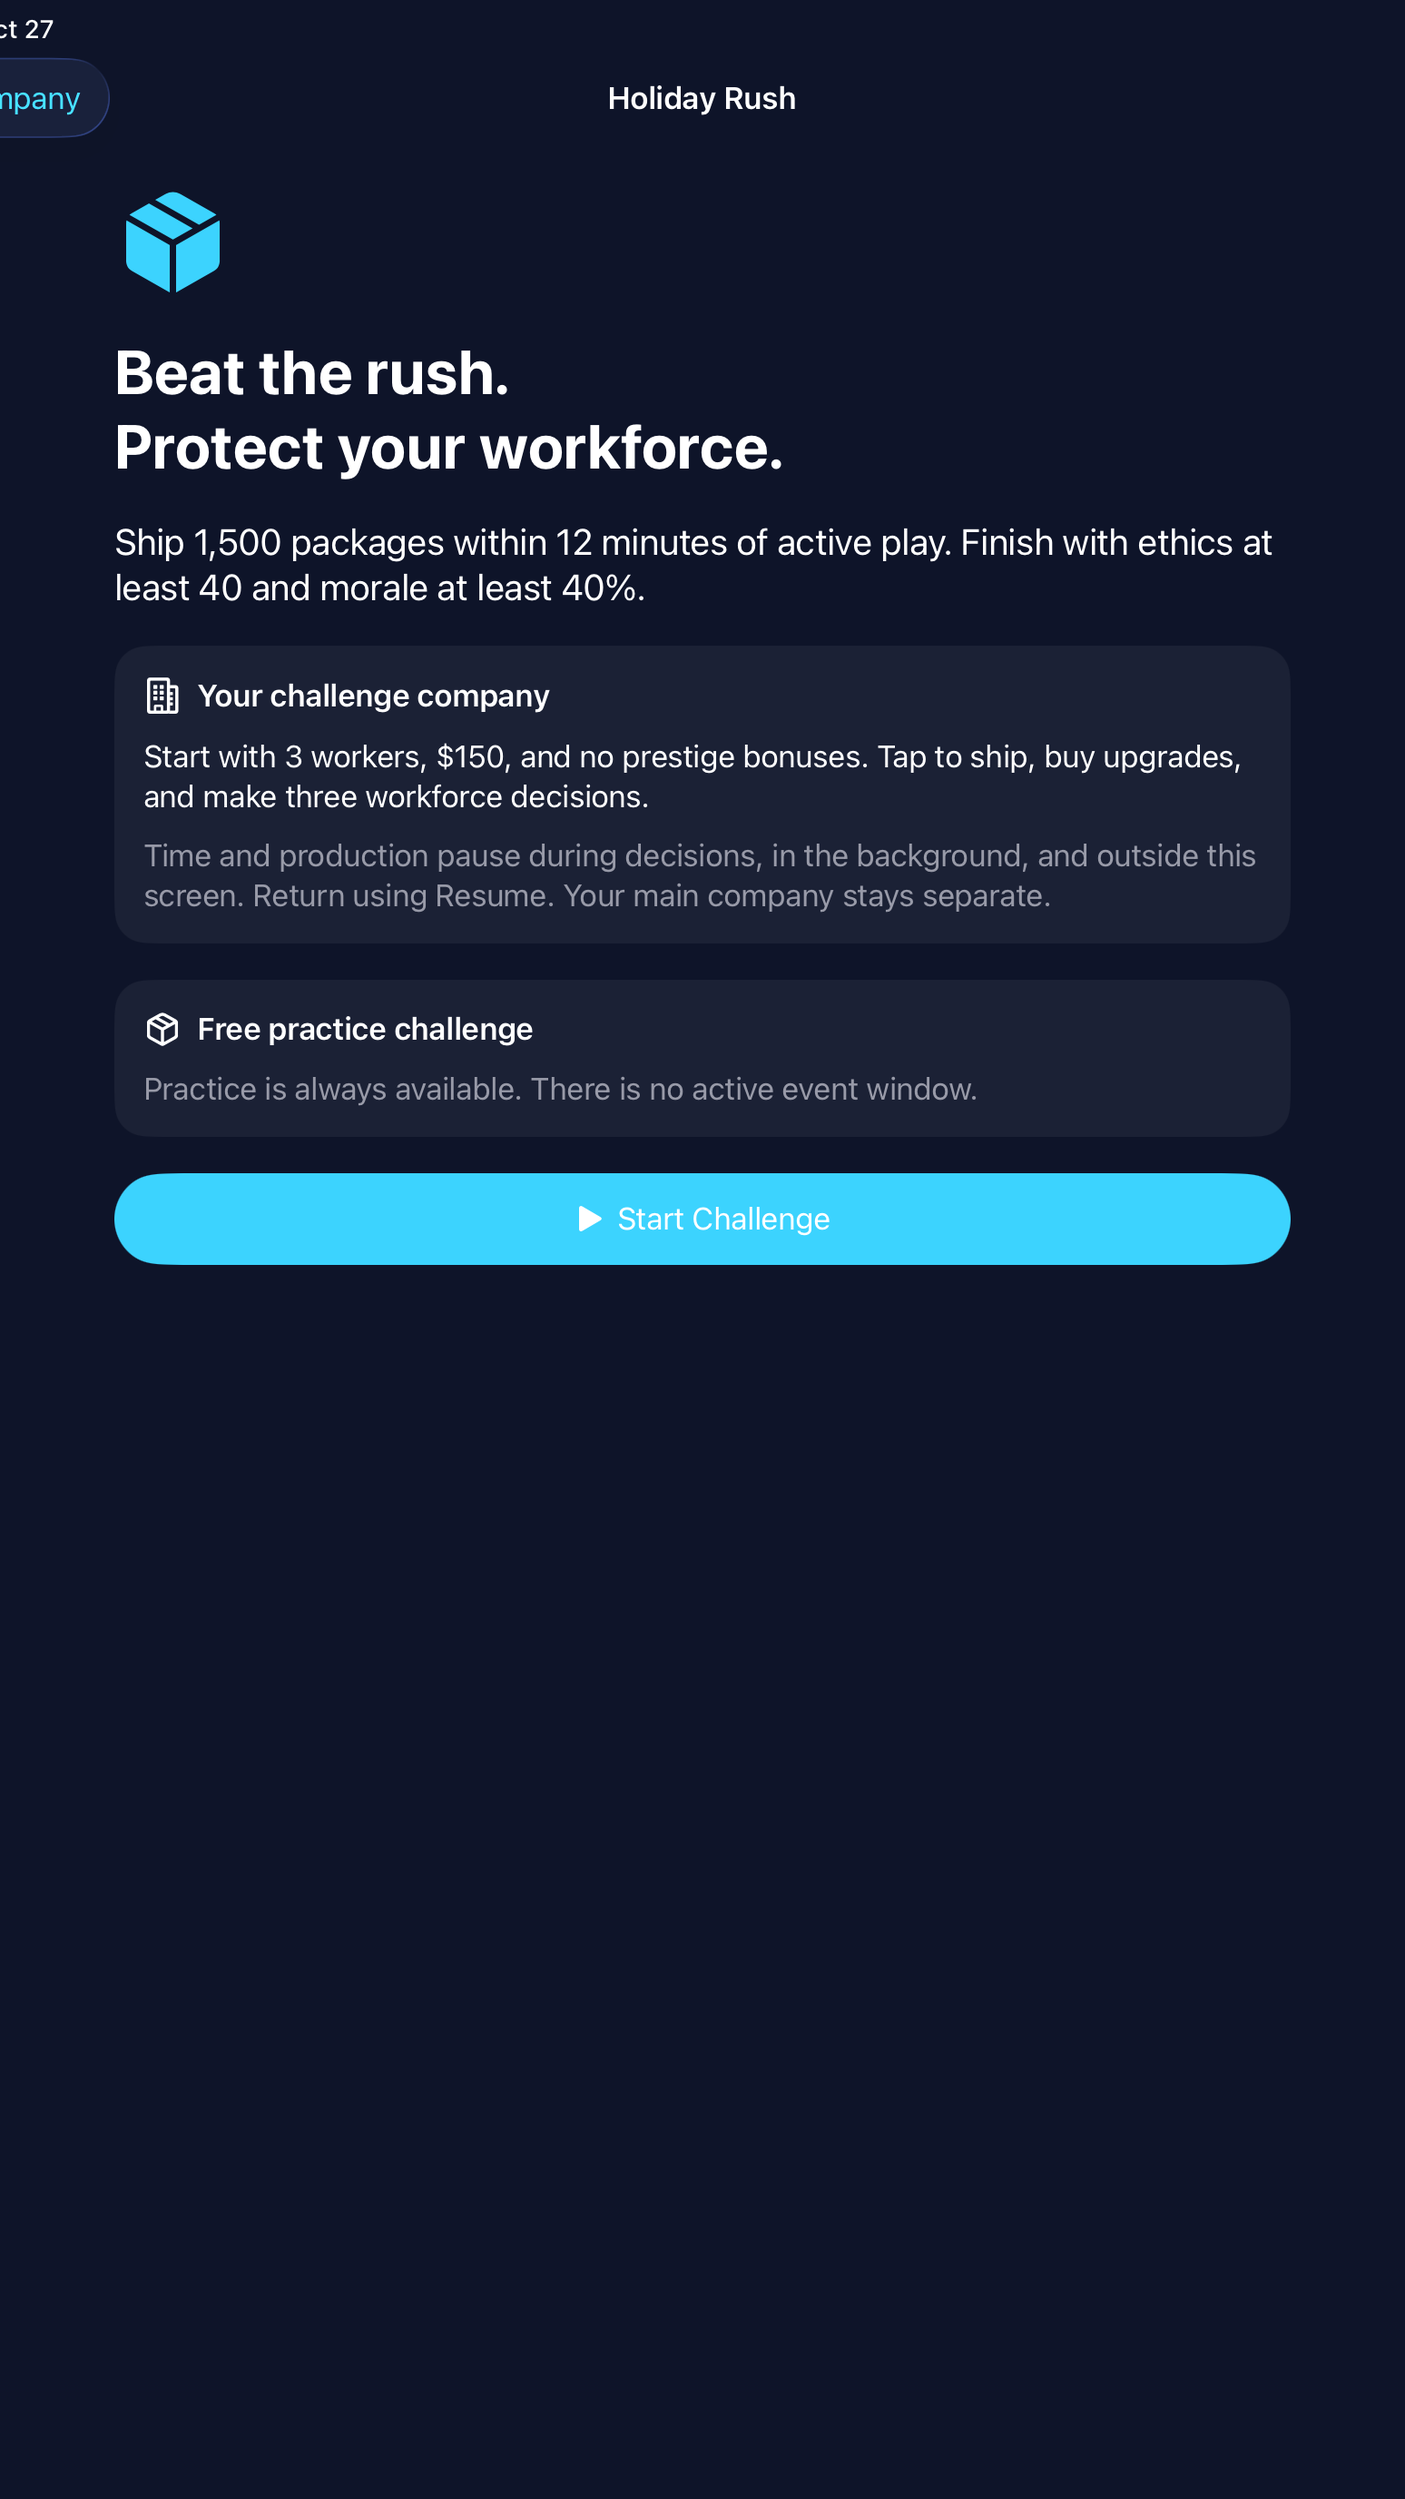
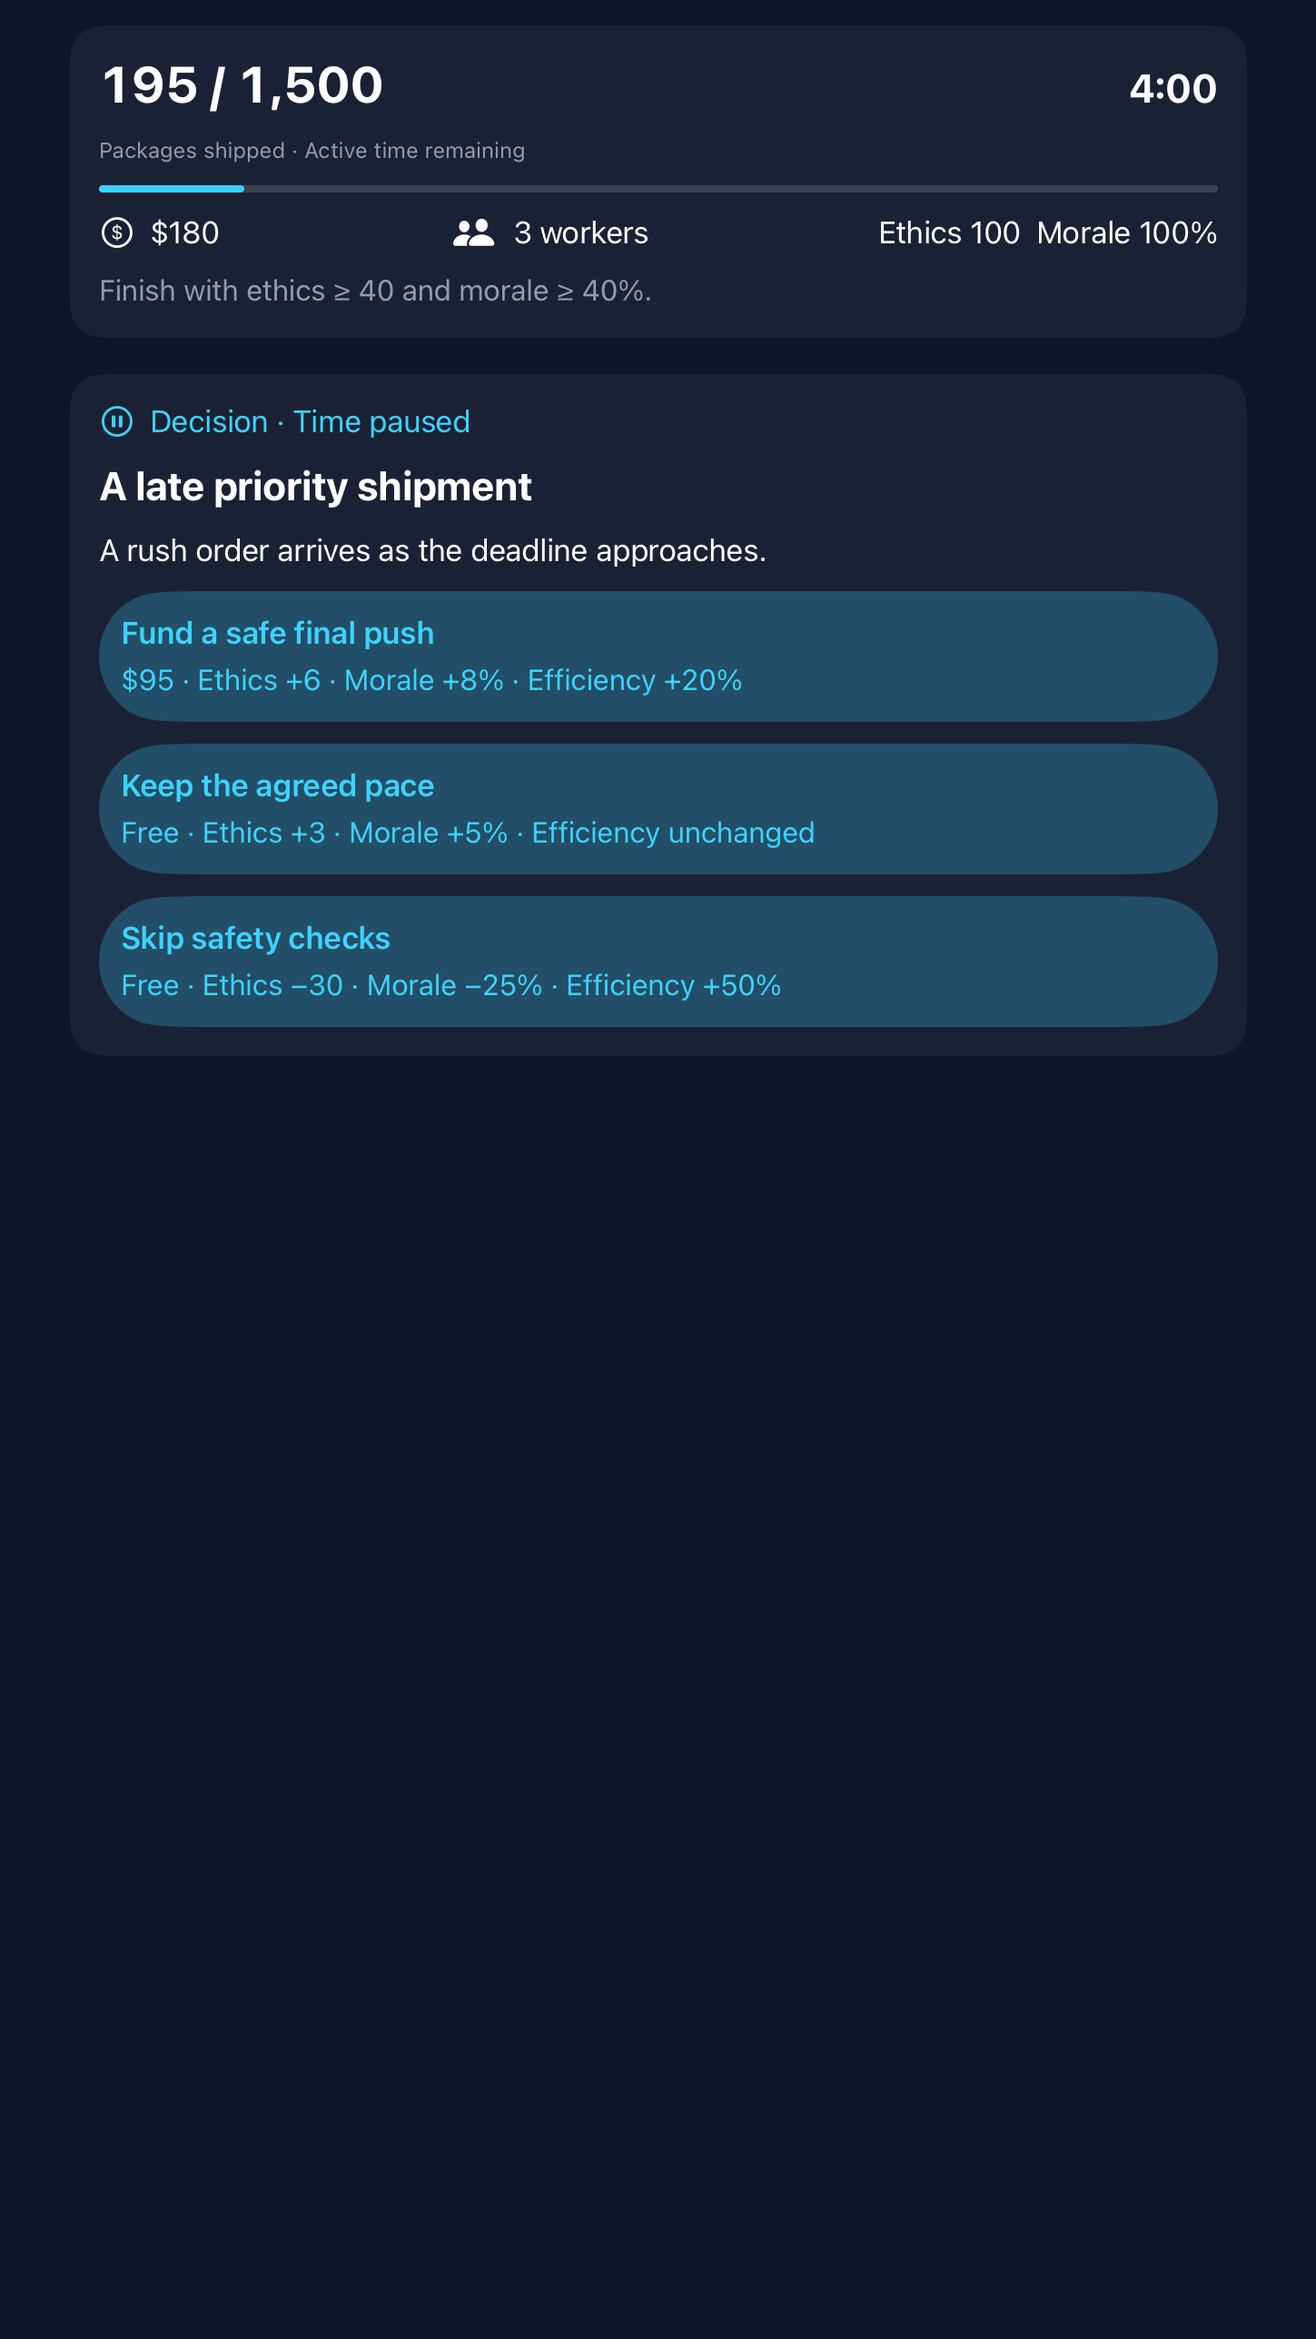
fix: record accessible challenge sharing and verify native flows

diff --git a/Prime Collapse/Prime Collapse/Views/HolidayRush/HolidayRushView.swift b/Prime Collapse/Prime Collapse/Views/HolidayRush/HolidayRushView.swift
@@ -1,10 +1,12 @@
 import SwiftUI
+import UIKit
 
 struct HolidayRushView: View {
     @Environment(\.dismiss) private var dismiss
     @Environment(\.scenePhase) private var scenePhase
     @State private var session: HolidayRushSession
     @State private var manualShipCount = 0
+    @State private var sharedResult: HolidayRushResult?
 
     init(session: HolidayRushSession? = nil) {
         _session = State(initialValue: session ?? HolidayRushSession())
@@ -78,6 +80,9 @@ struct HolidayRushView: View {
             if phase != .active { session.pause() }
         }
         .onDisappear { session.pause() }
+        .sheet(item: $sharedResult) { result in
+            HolidayRushShareSheet(text: result.shareText)
+        }
     }
 
     private var briefing: some View {
@@ -252,8 +257,10 @@ struct HolidayRushView: View {
             }
             Button("Replay Challenge", systemImage: "arrow.clockwise") { session.replay() }
                 .buttonStyle(.borderedProminent).controlSize(.large)
-            ShareLink(item: result.shareText) { Label("Share Result", systemImage: "square.and.arrow.up") }
-                .simultaneousGesture(TapGesture().onEnded { session.recordShare() })
+            Button("Share Result", systemImage: "square.and.arrow.up") {
+                session.recordShare()
+                sharedResult = result
+            }
             panel {
                 Text("Would you play more challenges like this?").font(.headline)
                 Text("Optional · Saved only on this device").font(.caption).foregroundStyle(.secondary)
@@ -288,4 +295,14 @@ struct HolidayRushView: View {
             .padding()
             .background(.white.opacity(0.055), in: RoundedRectangle(cornerRadius: 18))
     }
+}
+
+private struct HolidayRushShareSheet: UIViewControllerRepresentable {
+    let text: String
+
+    func makeUIViewController(context: Context) -> UIActivityViewController {
+        UIActivityViewController(activityItems: [text], applicationActivities: nil)
+    }
+
+    func updateUIViewController(_ controller: UIActivityViewController, context: Context) {}
 }

diff --git a/marketing/holiday-rush/export-captures.py b/marketing/holiday-rush/export-captures.py
@@ -16,28 +16,32 @@ def pixels(path):
     return values['pixelWidth'], values['pixelHeight']
 
 
-def export(source, target, ratio, minimum, maximum):
+def export(source, target, ratio, minimum, maximum, top=0):
     width, height = pixels(source)
-    unit = min(width // ratio[0], height // ratio[1], maximum[0] // ratio[0], maximum[1] // ratio[1])
+    if not 0 <= top < height:
+        raise ValueError('Top crop must be within the source image')
+    unit = min(width // ratio[0], (height - top) // ratio[1], maximum[0] // ratio[0], maximum[1] // ratio[1])
     crop = (ratio[0] * unit, ratio[1] * unit)
     if crop[0] < minimum[0] or crop[1] < minimum[1]:
         raise ValueError(f'{source}: {width}x{height} is too small for {target.name}; capture at native resolution')
     offset_x = (width - crop[0]) // 2
     subprocess.run(['swift', str(Path(__file__).with_name('crop-capture.swift')), str(source), str(target),
-                    str(crop[0]), str(crop[1]), str(offset_x), '0'], check=True, capture_output=True)
+                    str(crop[0]), str(crop[1]), str(offset_x), str(top)], check=True, capture_output=True)
     if pixels(target) != crop:
         raise ValueError(f'Unexpected export dimensions: {target}')
     return {'source': str(source.resolve()), 'output': target.name, 'pixels': list(crop),
-            'transformation': 'top-aligned horizontal center crop and PNG encoding only; no artwork or upscaling'}
+            'cropOrigin': [offset_x, top],
+            'transformation': 'native screenshot crop and PNG encoding only; no artwork or upscaling'}
 
 
 parser = argparse.ArgumentParser(description=__doc__)
 parser.add_argument('--landscape', type=Path, required=True)
 parser.add_argument('--portrait', type=Path, required=True)
+parser.add_argument('--portrait-top', type=int, default=0, help='Native pixels to exclude above portrait/social content')
 args = parser.parse_args()
 folder = Path(__file__).resolve().parent
 outputs = [export(args.landscape, folder / 'event-card.png', (16, 9), (1920, 1080), (3840, 2160)),
-           export(args.portrait, folder / 'event-detail.png', (9, 16), (1080, 1920), (2160, 3840)),
-           export(args.portrait, folder / 'social-capture.png', (1, 1), (1080, 1080), (2160, 2160))]
+           export(args.portrait, folder / 'event-detail.png', (9, 16), (1080, 1920), (2160, 3840), args.portrait_top),
+           export(args.portrait, folder / 'social-capture.png', (1, 1), (1080, 1080), (2160, 2160), args.portrait_top)]
 (folder / 'capture-provenance.json').write_text(json.dumps({'assets': outputs}, indent=2) + '\n')
 print(json.dumps(outputs, indent=2))

diff --git a/docs/holiday-rush-validation.md b/docs/holiday-rush-validation.md
@@ -1,4 +1,4 @@
-# Holiday Rush validation — October 27, 2026
+# Holiday Rush validation — October 28, 2026
 
 ## Implemented
 
@@ -46,18 +46,22 @@ These demonstrate an attainable goal with consequential tradeoffs. They are scri
 - Main-game Holiday Rush entry opens the briefing with an explicit Start button. Start opens challenge gameplay.
 - Warm event link from a staged collapsed-company save opens the separate challenge. Returning originally stranded the company; this was reproduced before the fix and then verified to restore the Economic Collapse ending screen after the fix.
 - On a fresh iPad Pro 13-inch / iPadOS 26.5 profile, a cold event link first shows onboarding; dismissing onboarding opens the Holiday Rush briefing without starting a run.
-- Captured actual briefing UI on iPhone and iPad. Event/social preview media is cropped from the unmodified native iPad capture; dimensions and aspect ratios checked, with no artwork generation or upscaling.
+- Completed an unaccelerated 720-active-second iPad walkthrough: 364 packages, ethics 100, morale 100%. Touch shipping, logistics/worker purchases and all three paid constructive decisions worked. This low-tap QA run reached the deadline; it is not a human difficulty study.
+- Pause/resume and Home/background preserved the paused challenge counters. Returning to the company and reentering retained the challenge. Replay started a fresh challenge and retained the prior result and optional local feedback.
+- Main-company checkpoint matched exactly after challenge completion and replay: 3 packages, $2.85, one worker, $2.85 lifetime earnings and zero ethical choices. Before/after evidence is in `holiday-rush-evidence/`.
+- Result sharing and diagnostic export opened native share sheets and were dismissed without sending. Accessibility activation reproduced a missing share-opening record with the old gesture handler (zero records); an explicit button action fixed it (one `share_sheet_opened` record). This measures opening, not completed sharing. Optional Maybe feedback visibly saved and persisted through replay.
+- Ending touch scrolling and Play Again worked on iPhone after hiding decorative background/confetti effects from accessibility. Previously dozens of decorative images burdened the accessibility tree. The final share fix built successfully and was verified natively on iPad; the 95-test suite above predates these two view-only fixes.
+- iPad portrait/landscape and enlarged text size 7 were inspected; text wrapped and Resume remained reachable. Accessibility labels/actions were inspected, but a full spoken VoiceOver walkthrough was not performed.
+- Captured actual briefing/decision UI on iPhone and iPad. Event/social previews are deterministic crops of actual native decision screenshots; exact dimensions/aspect ratios checked, with no artwork generation or upscaling.
 
 UI fixture tests used isolated simulator data only. The staged main save was backed up in the task's temporary directory. No personal app install or production data was modified.
 
 ## Remaining native verification
 
-The Mac locked during the manual shipping walkthrough. Unlock was requested; no lock bypass or further native input was attempted. The following are still pending:
+The Mac was unlocked and the native walkthrough resumed. Remaining verification:
 
-- Touch shipping and upgrade purchases, all authored decision buttons, pause/resume across app background/foreground, result/replay and exact main-company restoration.
-- Opening the share sheet and deliberate diagnostic export without sending to anyone.
-- Touch scrolling of the newly scrollable base ending screen, Dynamic Type and VoiceOver checks.
-- Full unaccelerated human playthrough and physical-device validation.
+- A physical-device player pilot and a full spoken VoiceOver/gesture walkthrough.
+- A human win-oriented playtest for difficulty and repeat interest; scripted success and a low-tap native deadline run do not measure player demand.
 - Replace/review preview event media using final active-event captures after dates are chosen, including App Store Connect's overlay/crop preview.
 
 ## External release state

diff --git a/marketing/holiday-rush/README.md b/marketing/holiday-rush/README.md
@@ -5,23 +5,24 @@ Local drafts for Prime Collapse 1.3. No App Store Connect event has been created
 ## Files
 
 - `event-metadata.json`: checked-length event name, descriptions, badge, audience and deep link. Dates and storefronts deliberately remain unselected.
-- `event-card.png`: 2064 × 1161, exact 16:9 landscape.
-- `event-detail.png`: 1548 × 2752, exact 9:16 portrait.
+- `event-card.png`: 2752 × 1548, exact 16:9 landscape.
+- `event-detail.png`: 1449 × 2576, exact 9:16 portrait.
 - `social-capture.png`: 2064 × 2064 square.
 - `launch-copy.md`: event copy, social drafts, pilot invitation and review notes.
 - `release-checklist.md`: event scheduling, app release and player pilot steps.
 - `capture-provenance.json`: actual source screenshot and deterministic crop details.
 
-All media comes from a real simulator capture of the implemented briefing. No generated illustrations, invented gameplay or upscaling. These are preview assets: once event dates are chosen, configure `HolidayRushWindow.json` and recapture the active event experience before submission. Inspect App Store Connect's media overlays/crops as part of the final upload review. The current practice screen accurately reflects the unconfigured event window.
+All media comes from real simulator captures of the implemented challenge decisions. No generated illustrations, invented gameplay or upscaling. These are preview assets: once event dates are chosen, configure `HolidayRushWindow.json` and recapture the active event experience before submission. Inspect App Store Connect's media overlays/crops as part of the final upload review. The media shows the free challenge, without promising a dated badge before an event window is configured.
 
 Recreate native exports on macOS with Xcode installed:
 
 ```sh
 python3 marketing/holiday-rush/export-captures.py \
-  --landscape marketing/holiday-rush/captures/briefing-ipad-portrait.png \
-  --portrait marketing/holiday-rush/captures/briefing-ipad-portrait.png
+  --landscape marketing/holiday-rush/captures/staffing-ipad-landscape.png \
+  --portrait marketing/holiday-rush/captures/priority-ipad-portrait.png \
+  --portrait-top 176
 ```
 
-The supplied landscape asset is a wide crop of the native portrait capture. A landscape gameplay capture can replace it after the remaining native walkthrough. CoreGraphics performs cropping; `sips` verifies pixel dimensions. No package installation or external image service is used.
+The landscape card uses the seasonal-staffing decision in landscape; the portrait and social assets use the priority-shipment decision in portrait. CoreGraphics performs cropping; `sips` verifies pixel dimensions. No package installation or external image service is used.
 
 Official media requirements checked October 27, 2026: https://developer.apple.com/help/app-store-connect/reference/app-information/creative-assets-specifications

diff --git a/docs/superpowers/plans/2026-10-27-holiday-rush.md b/docs/superpowers/plans/2026-10-27-holiday-rush.md
@@ -33,7 +33,7 @@ Files: ContentView.swift, Prime_CollapseApp.swift, new Views/HolidayRush/*, Info
 - [x] Add a prominent Holiday Rush entry, briefing/start/resume, dashboard goal progress, shared upgrade choices, authored event choices, result/replay/return, local feedback, diagnostics export and share card.
 - [x] Route `primecollapse://events/holiday-rush` after onboarding; opening never automatically starts/resets. Main game pauses and resumes safely behind the full-screen challenge.
 - [x] Show exact base ending progress and stability requirement from engine policy. Handle loaded terminal state before simulation starts.
-- [ ] Build, test, and perform touch-driven walkthrough on isolated iPhone 17 Pro Max. Verify save/return/replay, background pause, cold/warm deep links and share sheet.
+- [x] Build, test, and perform touch-driven walkthrough on isolated iPhone 17 Pro Max. Verify save/return/replay, background pause, cold/warm deep links and share sheet.
 - [x] Commit integration as `52aae82 feat: integrate Holiday Rush event entry and visible ending progress`.
 
 ## 4. Event and marketing package
@@ -46,6 +46,6 @@ Files: marketing/holiday-rush/*.
 
 ## 5. Review and delivery
 - [x] Review spec compliance and code quality, address issues, and run integrated tests/build (95 passed).
-- [ ] Finish remaining native walkthrough after Mac unlock; see validation document for explicit gaps.
+- [x] Resume native walkthrough after Mac unlock: shipping, upgrades, decisions, pause/background, result/share/export/replay and company checkpoint verified. Physical-device pilot and full spoken VoiceOver remain listed in validation.
 - [x] Record test counts, engine evidence, screenshots, and external release gaps in docs/holiday-rush-validation.md.
-- [ ] Deliver branch/commit, runnable build and asset links. No claim of TestFlight distribution, App Store approval, public launch, or aggregate demand measurement without separate verification.
+- [x] Deliver branch/commit, runnable build and asset links. No claim of TestFlight distribution, App Store approval, public launch, or aggregate demand measurement without separate verification.
